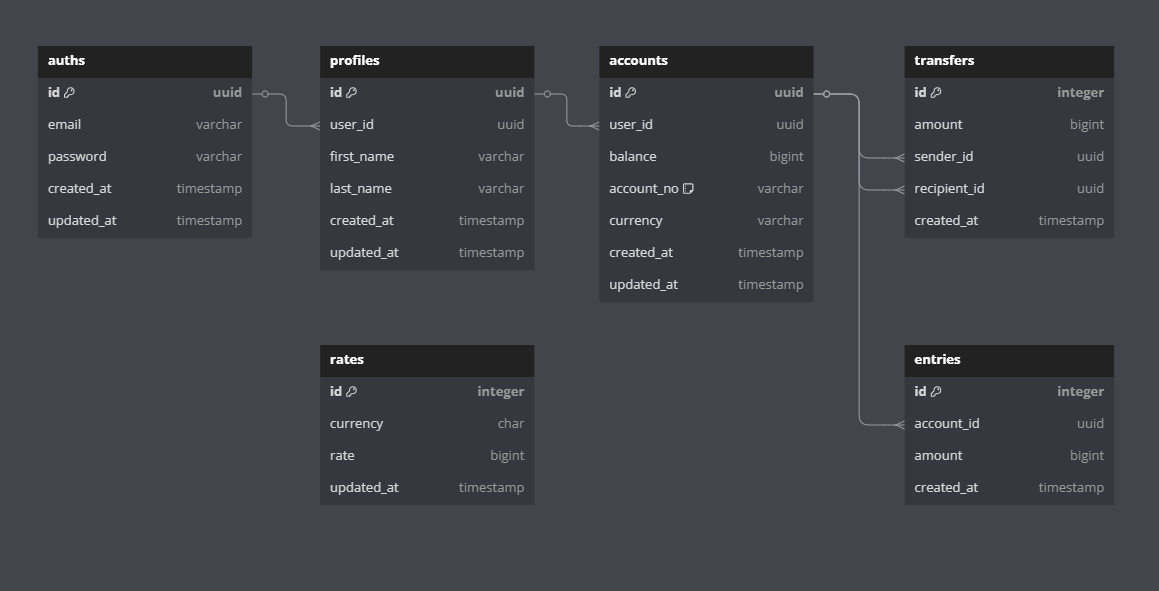
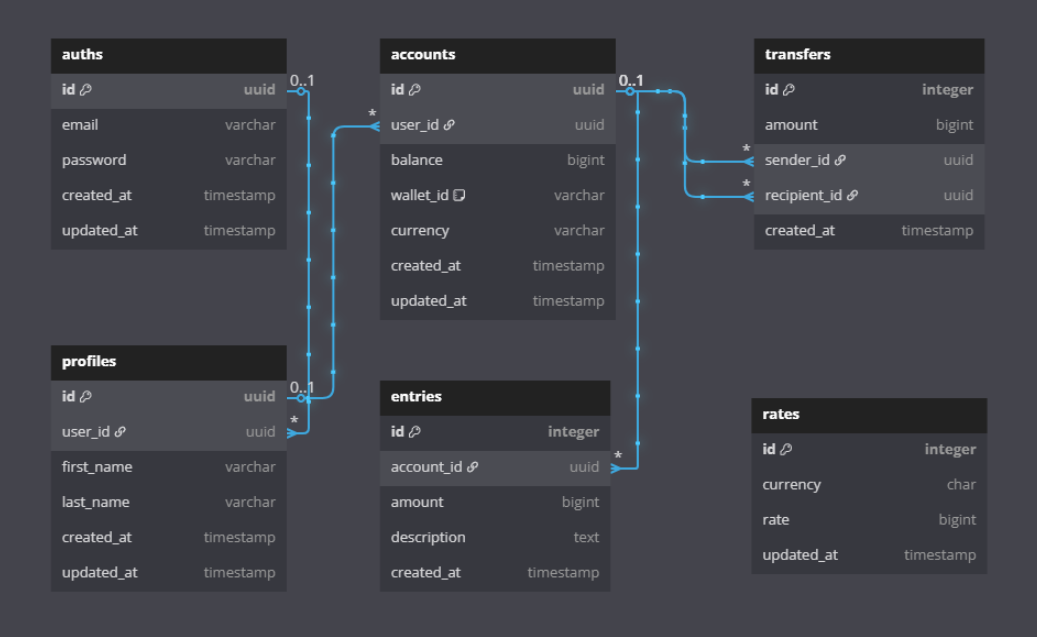
Modified documentation

diff --git a/src/server.ts b/src/server.ts
@@ -5,13 +5,11 @@ import logger from './utils/logger';
 import { db } from './db'; // Initialized database
 import { createServer } from "http";
 
-
-
 const server = createServer(app);
+
 server.listen(CONFIG.PORT, async () => {
   await db.migrate();
 })
-
 
 server.on("listening", () => {
   logger.info(`App running on port ${CONFIG.PORT}`);

diff --git a/README.md b/README.md
@@ -1,14 +1,71 @@
 # demo-credit
-A demo backend service that provides wallet service(s) for a mobile lending app.
+A backend service that provides wallet functionality for a mobile lending application. The service handles account management, transfers, and transaction tracking.
 
-#
-### Stack
-- NodeJS
-- MySQL
-- Docker
-- Jest
-- KnexORM
+## Features
+- Account Creation and Management
+- Money Transfers
+- Transaction History
+- Balance Enquiries
+- Multiple Currency Support
+- Unit tests
 
-#
-### Database Schema:
+## Tech Stack
+- **Runtime**: Node.js
+- **Database**: MySQL
+- **ORM**: Knex.js
+- **Testing**: Jest
+- **Containerization**: Docker
+- **Language**: TypeScript
+
+## Database Schema
 ![Database Schema](db-schema.png)
+
+## API Documenntation
+[Postman Docs](https://documenter.getpostman.com/view/23824252/2sAYdoEnUT)
+
+## Project Structure - Core entities
+```
+src/
+├── internal/
+│   ├── transactions/    # Database transaction handling
+│   ├── models/          # Data models/entities
+│   ├── queries/         # Database queries
+│   ├── database.ts      # Database configuration and utilities
+│   └── store.ts        # Orchestrates database operations and business transactions as a single provider.
+├── utils/              # Utility functions
+├── server.ts           # Application entry point
+├── services/           # Application business logic
+└── routes/             # Application API routes
+```
+
+## Setup
+
+1. Clone the repository
+
+2. Install dependencies:
+```bash
+   npm install
+```
+3. Set up environment variables:
+```bash
+   cp env.example .env
+```
+
+4. Run migrations: migrations are run automatically when the application is initialized or when `/src/db.ts` file is run as a standalone but migrations can also be run in isolation
+```bash
+   npm run migrate
+```
+
+## Running the Application
+
+```bash
+   npm run dev | npm run start:dev   # Development mode
+   npm run build                     # Build project
+   npm start                         # Production mode
+```
+
+## Testing
+
+```bash
+   npm run test
+```
